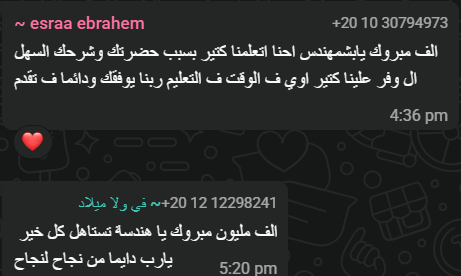
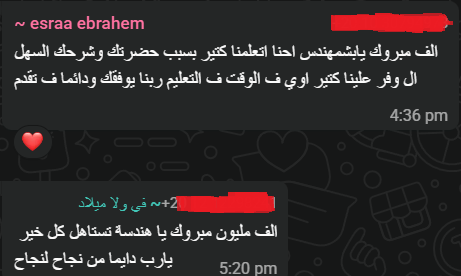
delete select

Changed region(s): [[0.6985, 0.029, 1.0, 0.1159], [0.3644, 0.6957, 0.6074, 0.7826]]

diff --git a/app/layout.tsx b/app/layout.tsx
@@ -55,7 +55,7 @@ export default function RootLayout({
           referrerPolicy="no-referrer"
         />
       </head>
-      <body suppressHydrationWarning className="min-h-full flex flex-col antialiased">
+      <body suppressHydrationWarning className="min-h-full flex flex-col antialiased select-none">
         <AppProviders>{children}</AppProviders>
       </body>
     </html>
